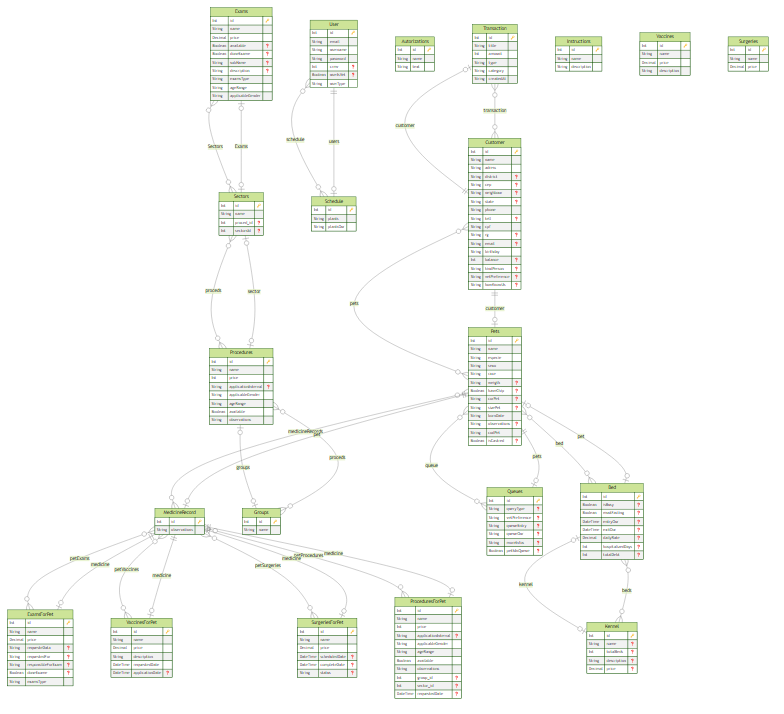
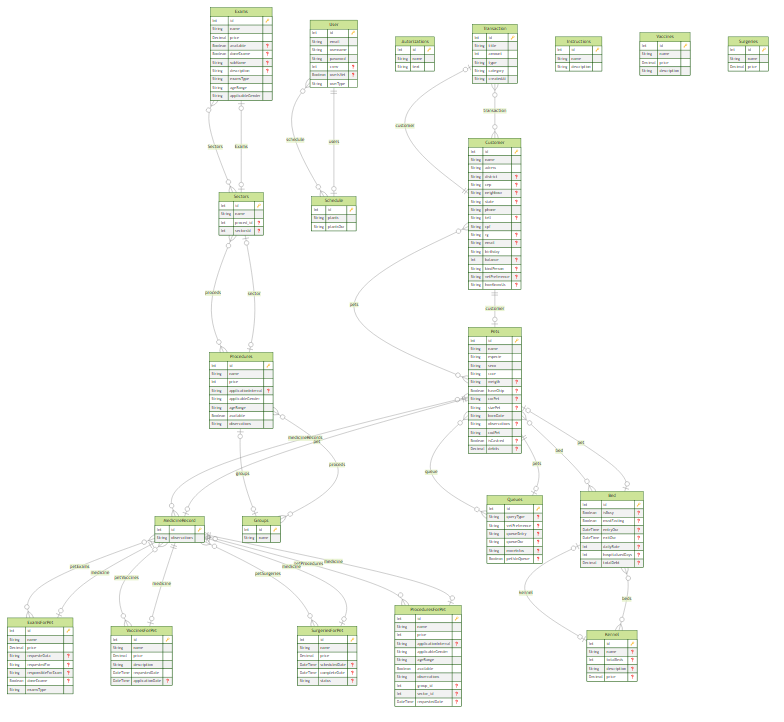
finish api admission and remake front

diff --git a/server/src/controllers/admissionsController.ts b/server/src/controllers/admissionsController.ts
@@ -2,7 +2,8 @@ import { FastifyRequest, FastifyReply } from "fastify";
 import { PrismaClient } from "@prisma/client";
 import { AdmissionSchema, BedSchema } from "../schemas/schemasValidator";
 import { ValidationContract } from "../validators/validateContract";
-
+import { z } from "zod";
+const {getDiferrenceBetweenOurs} = require('../utils/countOurs')
 const prisma = new PrismaClient();
 
 
@@ -37,7 +38,7 @@ export const admissionsController = {
   },
   getKennels: async (request: FastifyRequest, reply: FastifyReply) => {
     const kennels = await prisma.kennel.findMany({
-      include: {beds: {select: {id: true, isBusy: true, mustFasting: true}}}
+      include: {beds: {select: {id: true, isBusy: true, mustFasting: true,  pet: {select: {name: true}}}}}
     })
     try {
       reply.send(kennels).status(200)
@@ -54,6 +55,7 @@ export const admissionsController = {
           id: bed.id,
           isBusy: bed.isBusy,
           mustFasting: bed.mustFasting,
+
         }
         return data
       })
@@ -64,9 +66,9 @@ export const admissionsController = {
   },
 
   admitPet: async (request: FastifyRequest, reply: FastifyReply) => {
-    const { petId, isBusy, mustFasting, kennelId, bedId} = BedSchema.parse(request.body) 
+    const { petId, isBusy, dailyRate, mustFasting, kennelId, bedId} = BedSchema.parse(request.body) 
     const contract = new ValidationContract() ;
-
+    const actualDate = new Date()
     try {
       await contract.validateBedIsBusy(bedId, 'Leito já ocupado')
       if(contract.hadError()){
@@ -78,12 +80,57 @@ export const admissionsController = {
         where: {id: kennelId}, 
         data: {
           beds: {update: {where: {id: bedId}, 
-          data: {isBusy: isBusy, mustFasting, pet: {connect: {id: petId}}}}}}
+          data: {isBusy: isBusy, mustFasting, dailyRate,  entryOur: actualDate ,pet: {connect: {id: petId}}}}}}
       },)
     } catch (error) {
-      reply.status(400).send({message: error})
+      reply.status(400).send(error)
+      console.log(error)
     }
   },
+
+  finishPetAdmission: async (request: FastifyRequest, reply: FastifyReply) => {
+    const FinishAdmissionSchema = z.object({
+      petId: z.number().optional(),
+      bedId: z.number().optional(),
+    })
+    const { petId, bedId} = FinishAdmissionSchema.parse(request.body) 
+    const actualDate = new Date()
+
+    const bedDetails = await prisma.bed.findUnique({
+      where: {id: bedId}
+    })
+    if(!bedDetails) {
+      return
+    } 
+
+    const totalToPay = await getDiferrenceBetweenOurs(bedDetails.entryOur,actualDate, bedDetails.dailyRate)
+
+    try {
+      await prisma.bed.update({
+        where: {id: bedId}, 
+        data: {exitOur: actualDate, totalDebt: Number(totalToPay), isBusy: false}
+      })
+
+     await prisma.pets.update({
+      where: {id: petId}, data : {
+            debits: bedDetails.totalDebt
+      }
+     }) 
+
+
+     await prisma.bed.update({
+      where: {id: bedId}, 
+      data: {petId: null, dailyRate: null, entryOur: null, exitOur: null, totalDebt: null, hospitalizedDays: null}
+     })
+    
+
+      reply.send("Internação Encerrada com sucesso").status(202)
+    } catch (error) {
+      console.log(error)
+      reply.send(error)
+    }
+  },
+
 
   getBusyAndAdmittedPets: async (request: FastifyRequest, reply: FastifyReply) => {
     try {
@@ -112,13 +159,4 @@ export const admissionsController = {
     }
   },
 
-  testAdmissions: async (request: FastifyRequest, reply: FastifyReply) => {
-    try {
-      const actualOur = new Date().getTime();
-      const formmatedDate = new Intl.DateTimeFormat('pt-BR', {hour: '2-digit', minute: '2-digit'}).format(actualOur);
-      reply.send(formmatedDate)
-    } catch (error) {
-      console.log(error)
-    }
-  }
 }

diff --git a/server/src/utils/countOurs.ts b/server/src/utils/countOurs.ts
@@ -1,4 +1,3 @@
-
 const dayjs = require('dayjs')
 var utc = require('dayjs/plugin/utc')
 var timezone = require('dayjs/plugin/timezone') // dependent on utc plugin
@@ -6,54 +5,35 @@ var timezone = require('dayjs/plugin/timezone') // dependent on utc plugin
 dayjs.extend(utc)
 dayjs.extend(timezone)
 
-
-/*
-function calcularValorAcrescentado() {
-    // Define a hora de referência (pode ser a hora atual ou uma hora específica)
-    const horaDeReferencia: any = new Date('2023-07-23T00:12:00'); // Substitua pela hora desejada
-  
-    // Obtém a hora atual
-    const horaAtual: any = new Date();
-  
-    // Calcula o tempo decorrido em milissegundos
-    const tempoDecorrido = horaAtual - horaDeReferencia;
-  
-    // Define o valor do acréscimo (100) e o intervalo de tempo (12 horas em milissegundos)
-    const valorAcrescentado = 100;
-    const intervaloDeTempo = 12 * 60 * 60 * 1000;
-  
-    // Calcula quantos intervalos de tempo completos ocorreram desde a hora de referência
-    const intervalosCompletos = Math.floor(tempoDecorrido / intervaloDeTempo);
-  
-    // Se ainda não passou a primeira hora de tolerância, não acrescenta nada
-    const primeiraHoraDeTolerancia = 1 * 60 * 60 * 1000;
-    if (tempoDecorrido <= primeiraHoraDeTolerancia) {
-      return 0;
+//@ts-ignore
+function getDiferrenceBetweenOurs(entryOur, exitOur, dailyRate) {
+  const fullDate = dayjs(new Date(entryOur))
+  const finalDate = dayjs(new Date(exitOur))
+  try {
+    const differenceBetweenDates = finalDate.diff(fullDate, 'minute')
+    let totalToPay = dailyRate;
+    let price = 300
+    if(differenceBetweenDates > 60) {
+      totalToPay+= (price / 2)
+      if(differenceBetweenDates >= 720) {
+        let diffToPay = Math.ceil((differenceBetweenDates / 720))
+        totalToPay+= diffToPay * (price / 2) - 150
+      } 
+    
     }
-  
-    // Calcula o valor total acrescentado
-    const valorTotalAcrescentado = intervalosCompletos * valorAcrescentado;
-  
-    return valorTotalAcrescentado;
+
+    return totalToPay;
+  } catch (error) {
+    console.log(error);
   }
-  */
   
-
-
-// MINHA FUDENDO FUNÇÃO SEM AJUDA DA PORRA DO GEPETO
-function getDiferrenceBetweenOurs() {
-
 }
 
-const fullDate = dayjs(new Date())
-const finalDate = dayjs(new Date('2023-07-24T23:44:14.705Z'))
-const actualOur = new Intl.DateTimeFormat('pt-BR', {day: '2-digit', month: '2-digit', hour: '2-digit', minute: '2-digit'}).format(fullDate)
-const endOur =  new Intl.DateTimeFormat('pt-BR', {day: '2-digit', month: '2-digit', hour: '2-digit', minute: '2-digit'}).format(finalDate)
-const differenceBetweenDates = finalDate.diff(fullDate, 'minute')
+console.log(getDiferrenceBetweenOurs('2023-07-31 15:08:55.626','2023-08-01 16:17:08.393', 200))
+
+module.exports = {
+  getDiferrenceBetweenOurs
+}
+ 
 
 
-console.log("FULLDATE", actualOur)
-console.log("FULLDATE", endOur)
-console.log("DIFERENCE", differenceBetweenDates)
-
-/// PEGAR DIFERENÇA DE MINUTOS A PARTIR DE 60 PODE CONTAR MINUTES > 60 +++

diff --git a/server/src/controllers/petsController.ts b/server/src/controllers/petsController.ts
@@ -24,7 +24,7 @@ getWithId: async (request: FastifyRequest, reply: FastifyReply) => {
       {select: { name: true, id: true, balance: true, pets: true}}, 
       medicineRecords: {select: {petExams: true, observations: true, id: true, petVaccines: true, petSurgeries: true, petProcedures: true }},
       queue: {select: { id: true, queryType: true, vetPreference: true, moreInfos: true, queueOur: true}},
-      bed: {select: {isBusy: true}}
+      bed: {select: {isBusy: true, entryOur: true, kennel: {select: {name: true}}, dailyRate: true, mustFasting: true}}
     } })
 
     const petData = { 
@@ -54,6 +54,11 @@ getWithId: async (request: FastifyRequest, reply: FastifyReply) => {
       ouor: pet?.queue?.queueOur,
       recordId: pet?.medicineRecords?.id,
       isBusy: pet?.bed?.isBusy,
+      bedInfos: {
+        entry: pet?.bed?.entryOur,
+        kennelName: pet?.bed?.kennel,
+        fasting: pet?.bed?.mustFasting
+      },
       exams: pet?.medicineRecords?.petExams.map((exams) => {
         let examData = {
           id: exams.id,

diff --git a/server/src/routes/admissions.routes.ts b/server/src/routes/admissions.routes.ts
@@ -8,6 +8,6 @@ app.post('/admissions', admissionsController.createKennel)
 app.get('/admissions', admissionsController.getKennels)
 app.get('/beds', admissionsController.getBeds)
 app.put('/admitpet', admissionsController.admitPet)
+app.put('/endadmission', admissionsController.finishPetAdmission)
 app.get('/admittedpet', admissionsController.getBusyAndAdmittedPets)
-app.get("/admissionstest", admissionsController.testAdmissions)
 }

diff --git a/server/src/schemas/schemasValidator.ts b/server/src/schemas/schemasValidator.ts
@@ -81,6 +81,8 @@ export const BedSchema = z.object({
   mustFasting: z.boolean().optional(),
   kennelId: z.number(),
   bedId: z.number(),
+  entryOur: z.date().optional(),
+  dailyRate: z.number().optional(),
 })
 
 export const QueueSchema = z.object({
